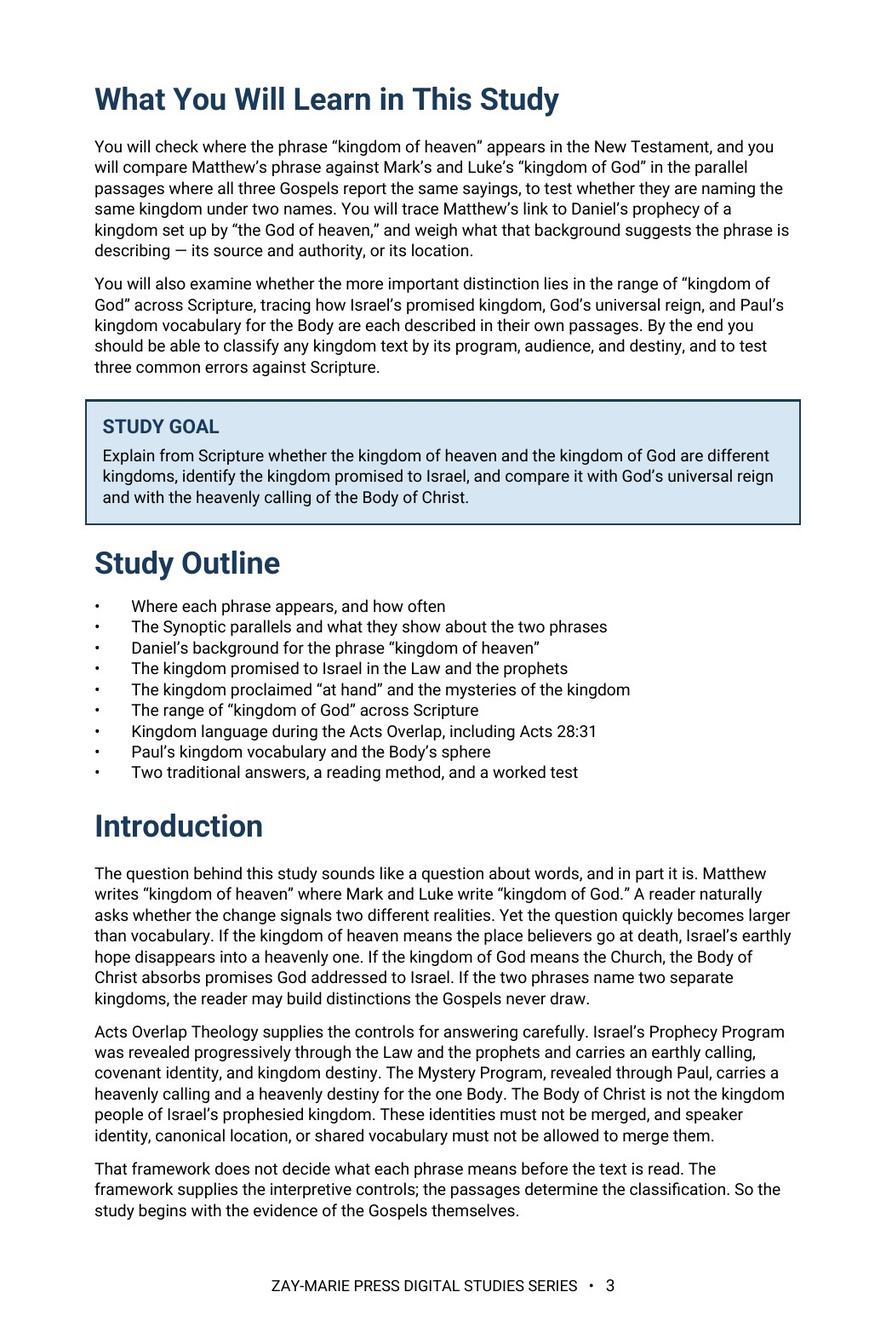
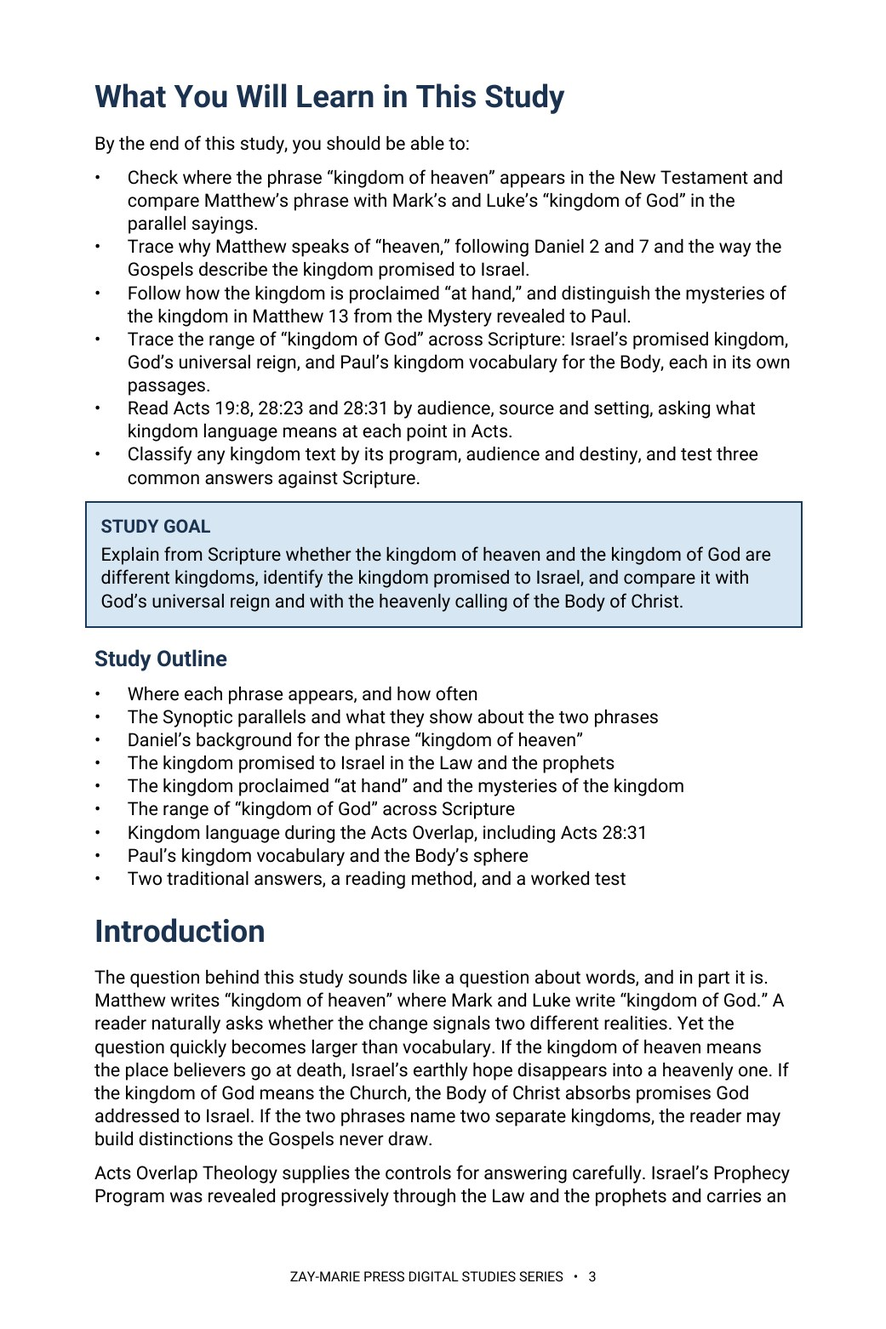
Study 41: rebuild to current page geometry, Roboto 10 pt, 21 pages; doctrinal retrofit; website counts and previews
Claude-Session: https://claude.ai/code/session_01HC7bs9KYP2scp4hCL6DkTp

Changed region(s): [[0.0922, 0.0615, 0.9222, 0.9219], [0.3074, 0.9526, 0.6455, 0.9834]]

diff --git a/study-41-kingdom-of-god-or-kingdom-of-heaven.html b/study-41-kingdom-of-god-or-kingdom-of-heaven.html
@@ -1,5 +1,5 @@
 <!doctype html>
 <html lang="en"><head><meta charset="utf-8"><meta name="viewport" content="width=device-width,initial-scale=1"><title>Kingdom of God or Kingdom of Heaven? | Zay-Marie Press</title><meta name="description" content="Are the kingdom of God and the kingdom of heaven two different kingdoms? Compare the Gospel parallels, Daniel’s kingdom from heaven, the Acts Overlap, and Paul’s heavenly kingdom language. Preview Study 41 from Zay-Marie Press."><link rel="stylesheet" href="styles.css?v=20260928-8"><link rel="icon" type="image/png" href="assets/zay-marie-press-favicon.png"><style>
 .study-detail-page{background:#fff;color:#252525}.detail-hero{background:linear-gradient(135deg,#f8f5ec,#e3ece2);padding:58px 0}.detail-hero-grid{display:grid;grid-template-columns:minmax(250px,.72fr) minmax(0,1.28fr);gap:58px;align-items:center}.detail-cover{max-width:390px;margin:auto}.detail-cover img{display:block;width:100%;height:auto;box-shadow:0 14px 36px rgba(8,45,69,.18)}.detail-hero h1{font-size:clamp(2.7rem,5vw,4.7rem);line-height:1.02;margin:8px 0 10px;color:#143823}.detail-subtitle{font-family:Georgia,serif;font-size:1.35rem;font-weight:700;color:#082d45;margin:0 0 7px}.detail-kicker{font-family:Georgia,serif;font-style:italic;font-size:1.05rem;color:#4a4a44;margin:0 0 22px}.detail-copy{font-size:1.08rem;line-height:1.65;max-width:760px}.detail-buyline{display:flex;align-items:center;gap:18px;flex-wrap:wrap;margin-top:25px}.detail-price{font-family:Georgia,serif;font-size:2rem;font-weight:700;color:#143823}.detail-format,.preview-card .page-no{font-family:Arial,sans-serif;font-size:.76rem;font-weight:700;letter-spacing:.1em;text-transform:uppercase;color:#176b3a}.detail-button{display:inline-block;background:#176b3a;color:#fff;padding:13px 22px;font-family:Arial,sans-serif;font-size:.8rem;font-weight:700;letter-spacing:.07em;text-transform:uppercase}.detail-button.pending{opacity:.72;cursor:default}.detail-section{padding:66px 0}.detail-section.soft{background:#f6f7f2}.detail-section.cream{background:#faf8f2}.detail-section h2{color:#143823;margin:6px 0 18px;font-size:clamp(2rem,3.4vw,3rem)}.detail-section .lead{max-width:920px;font-size:1.1rem;line-height:1.62}.study-distinction{max-width:920px;margin-top:28px;margin-bottom:28px;padding:26px 28px;background:#fff;border:1px solid #d8d1bf;border-left:4px solid #b8871c}.study-distinction h3{margin:0 0 10px;color:#143823}.study-distinction p{margin:0 0 14px;line-height:1.62}.study-distinction a{font-family:Arial,sans-serif;font-weight:700;color:#176b3a;text-decoration:none}.study-points{display:grid;grid-template-columns:repeat(3,1fr);gap:18px;margin-top:28px;margin-bottom:28px}.study-point,.scripture-card,.preview-card,.include-item{background:#fff;border:1px solid var(--line);text-align:left}.study-point{border-top:3px solid #176b3a;padding:22px}.study-point h3{color:#143823;margin:0 0 8px;font-size:1.2rem}.study-point p,.scripture-card p,.preview-card p,.include-item p{margin:0;line-height:1.55}.scripture-grid{display:grid;grid-template-columns:repeat(4,1fr);gap:14px;margin-top:24px;margin-bottom:24px}.scripture-card{padding:22px 20px;color:#143823}.scripture-card h3{margin:0 0 9px;font-family:Georgia,serif;font-size:1rem;line-height:1.35}.scripture-card p{font-size:.94rem;color:#45453f}.excerpt{max-width:900px;margin:28px auto;border-left:4px solid #b8871c;padding:10px 0 10px 28px}.excerpt blockquote{font-family:Georgia,serif;font-size:clamp(1.45rem,2.5vw,2rem);line-height:1.45;color:#143823;margin:0 0 16px}.excerpt p{line-height:1.6;margin:0}.preview-grid{display:grid;grid-template-columns:repeat(2,1fr);gap:20px;margin-top:28px;margin-bottom:28px}.preview-card{padding:18px;min-height:210px;box-shadow:0 7px 20px rgba(20,40,25,.05)}.preview-image-link{display:block;margin:0 0 18px}.preview-image-link img{display:block;width:100%;height:auto;border:1px solid #d8d1bf;box-shadow:0 8px 22px rgba(20,40,25,.1);transition:transform .18s ease,box-shadow .18s ease}.preview-image-link:hover img{transform:translateY(-2px);box-shadow:0 11px 28px rgba(20,40,25,.16)}.preview-card h3{color:#143823;margin:8px 0 10px}.preview-instruction{margin:10px 0 0;font-family:Arial,sans-serif;font-size:.78rem;letter-spacing:.04em;color:#5b5b55}.includes-grid{display:grid;grid-template-columns:repeat(4,1fr);gap:14px;margin-top:26px}.include-item{padding:22px 20px;color:#143823}.include-item h3{margin:0 0 9px;font-family:Arial,sans-serif;font-size:.86rem;line-height:1.35;letter-spacing:.02em}.include-item p{font-size:.94rem;color:#45453f}.final-buy{background:#082d45;color:#fff;border-top:4px solid #b8871c;padding:42px 48px;display:grid;grid-template-columns:1fr auto;gap:36px;align-items:center}.final-buy .eyebrow,.final-buy h2,.final-buy .detail-price{color:#fff}.final-buy h2{margin:7px 0 6px}.final-buy p{margin:0}.final-offer{text-align:center}.back-link{display:inline-block;margin-top:18px;color:#143823;font-family:Arial,sans-serif;font-weight:700;text-decoration:none}.preview-lightbox{position:fixed;inset:0;z-index:10000;display:none;align-items:flex-start;justify-content:center;background:rgba(8,22,16,.88);padding:24px;overflow:auto}.preview-lightbox.open{display:flex}.preview-lightbox img{display:block;width:auto;height:auto;max-width:none;box-shadow:0 18px 55px rgba(0,0,0,.4);background:#fff}.preview-lightbox-close{position:fixed;top:18px;right:24px;z-index:10001;width:46px;height:46px;border:1px solid rgba(255,255,255,.65);border-radius:50%;background:rgba(0,0,0,.55);color:#fff;font:32px/1 Arial,sans-serif;cursor:pointer}@media(max-width:900px){.detail-hero-grid{grid-template-columns:1fr;gap:34px}.detail-cover{max-width:330px}.study-points{grid-template-columns:repeat(2,1fr)}.scripture-grid,.includes-grid{grid-template-columns:repeat(2,1fr)}.preview-grid,.final-buy{grid-template-columns:1fr}.final-offer{text-align:left}}@media(max-width:560px){.detail-hero{padding:42px 0}.detail-section{padding:50px 0}.study-points,.scripture-grid,.includes-grid{grid-template-columns:1fr}.final-buy{padding:32px 24px}.detail-buyline{align-items:flex-start;flex-direction:column;gap:8px}.preview-lightbox{padding:58px 10px 24px}.preview-lightbox img{width:100%;max-width:100%;height:auto}} .detail-hero h1{font-size:clamp(2.1rem,4.2vw,3.7rem);line-height:1.08}</style></head><body class="study-detail-page">
-<header class="site-header"><div class="wrap nav"><a class="logo" href="index.html" aria-label="Zay-Marie Press home"><img src="assets/zay-marie-press-logo-hq.png" alt="Zay-Marie Press" width="420" height="238"></a><button class="menu-toggle" type="button" aria-expanded="false" aria-controls="primary-nav">MENU</button><nav aria-label="Primary navigation" class="primary-nav" id="primary-nav"><a href="index.html">HOME</a><a href="books.html">BOOKS</a><a href="series.html">SERIES</a><a class="active" aria-current="page" href="digital-studies.html">DIGITAL STUDIES</a><a href="biblical-hermeneutics-course.html">COURSE</a><a href="about.html">ABOUT</a><a href="resources.html">RESOURCES</a><a href="contact.html">CONTACT</a></nav></div></header><main><section class="detail-hero"><div class="wrap detail-hero-grid"><div class="detail-cover"><picture><source srcset="assets/study-41-cover.webp" type="image/webp"><img src="assets/study-41-cover.jpg" alt="Kingdom of God or Kingdom of Heaven? — Study 41 cover"></picture></div><div><div class="eyebrow">STUDY 41 · DIGITAL STUDY</div><h1>Kingdom of God or<br>Kingdom of Heaven?</h1><p class="detail-subtitle">Two Phrases, One Promised Kingdom, and the Distinctions Scripture Actually Draws</p><p class="detail-kicker">A Biblical Examination of the Gospel Parallels, Daniel’s Kingdom From Heaven, the Acts Overlap, and Paul’s Heavenly Kingdom Language</p><p class="detail-copy">Matthew speaks of the kingdom of heaven where Mark and Luke speak of the kingdom of God. Some teachers build two separate kingdoms on that difference; others fold both phrases into the Church, the heart, or going to heaven at death.</p><p class="detail-copy">This study lets the parallel sayings settle what the phrases share, then places the real distinction where Scripture places it: Israel’s promised kingdom, God’s universal reign, and the Body of Christ’s heavenly calling.</p><div class="detail-buyline"><span class="detail-price">$5.99</span><span class="detail-format">Digital PDF · 16 Pages</span><span class="detail-button pending" aria-disabled="true">Checkout Coming Soon</span></div></div></div></section><section class="detail-section"><div class="wrap"><div class="eyebrow">ABOUT THIS STUDY</div><h2>Two Phrases, One Promised Kingdom</h2><p class="lead">Where Matthew, Mark, and Luke report the same sayings, “kingdom of heaven” and “kingdom of God” name the same kingdom—Matthew 19:23–24 uses both for one entrance into one kingdom. Matthew’s phrase echoes Daniel’s kingdom set up by “the God of heaven”: a kingdom of heavenly source and authority, established on the earth under David’s Son.</p><p class="lead">The real distinction is one of range. “Kingdom of God” can also name God’s everlasting reign over all things, and in Paul’s letters it names the Son’s heavenly kingdom to which the Body has been translated. The Body of Christ is not the kingdom people of Israel’s prophesied kingdom; its sphere is the heavenly places.</p><p class="lead">This is not a study of what Israel was called to do in response to the Kingdom, which Study 2 examines in full, nor of the Body’s own heavenly calling, which Study 5 develops as a whole, nor of the Acts 28 suspension of Israel’s program, which Study 21 traces directly. Its task comes first: to settle, from the Gospels themselves, whether “kingdom of heaven” and “kingdom of God” name one kingdom or two before either later study is read.</p><div class="study-distinction"><h3>How These Studies Relate</h3><p>Study 41 tests whether the kingdom of heaven and the kingdom of God are different kingdoms and identifies whose kingdom each text describes.</p><p><a href="study-02-the-gospel-of-the-kingdom.html">Study 2 — The Gospel of the Kingdom</a> Study the Kingdom message itself—its audience, promises, and required response—after this study establishes what the two kingdom phrases name.</p><p><a href="study-05-the-heavenly-calling.html">Study 5 — The Heavenly Calling</a> Develop the Body’s heavenly identity, position, and hope, which this study distinguishes from Israel’s earthly kingdom inheritance.</p><p><a href="study-21-israels-judicial-blinding.html">Study 21 — Israel’s Judicial Blinding</a> Examine the Acts 28 suspension that frames this study’s reading of Paul’s final kingdom preaching in Acts 28:31.</p><p class="connection-guide-link"><a href="study-connections.html#study-41">Explore the full connection guide for Study 41 →</a></p></div><div class="cross-strand-note"><p class="cross-strand-label">FROM THE PARABLES STRAND</p><p>Two parables turn on the very question this study tests.</p><p><a href="parable-18-the-wise-and-foolish-builders.html">The Wise and Foolish Builders</a> · <a href="parable-34-the-narrow-door.html">The Narrow Door</a></p></div></div></section><section class="detail-section soft"><div class="wrap"><div class="eyebrow">WHAT YOU’LL STUDY</div><h2>Let the Parallel Texts Define the Phrases</h2><div class="study-points"><div class="study-point"><h3>Where Each Phrase Appears</h3><p>See why “kingdom of heaven” is unique to Matthew and how often Matthew also says “kingdom of God.”</p></div><div class="study-point"><h3>One Kingdom, Two Names</h3><p>Compare the Synoptic parallels and Matthew 19:23–24, and test whether the two phrases name one kingdom or two.</p></div><div class="study-point"><h3>Daniel’s Kingdom From Heaven</h3><p>Trace Daniel’s own use of “of heaven” and test what it names — a location, or a source and authority.</p></div><div class="study-point"><h3>The Kingdom Promised to Israel</h3><p>Identify David’s throne, the house of Jacob, and the earthly kingdom still expected in Acts 1:6.</p></div><div class="study-point"><h3>God’s Universal Reign</h3><p>Distinguish God’s everlasting rule over all things from the particular kingdom promised to Israel.</p></div><div class="study-point"><h3>Paul’s Heavenly Kingdom</h3><p>Classify kingdom language during the Acts Overlap and read Paul’s “heavenly kingdom” within the Body’s heavenly calling.</p></div></div></div></section><section class="detail-section cream"><div class="wrap"><div class="eyebrow">KEY SCRIPTURES</div><h2>Examine the Passages for Yourself</h2><div class="scripture-grid"><div class="scripture-card"><h3>Matthew 19:23–24</h3><p>Uses “kingdom of heaven” and “kingdom of God” in successive sentences for one entrance into one kingdom.</p></div><div class="scripture-card"><h3>Matthew 5:3; Luke 6:20</h3><p>Reports the same blessing on the poor with each Gospel’s kingdom phrase.</p></div><div class="scripture-card"><h3>Daniel 2:44; 7:27</h3><p>Promises a kingdom set up by the God of heaven and given “under the whole heaven.”</p></div><div class="scripture-card"><h3>Matthew 6:10</h3><p>Prays for the kingdom to come so that God’s will is done in earth as it is in heaven.</p></div><div class="scripture-card"><h3>Luke 1:32–33</h3><p>Names David’s throne, the house of Jacob, and an everlasting reign as the kingdom’s content.</p></div><div class="scripture-card"><h3>Acts 1:6–7; 28:23–31</h3><p>Frames Acts with Israel’s kingdom hope and Paul’s kingdom preaching after the Acts 28 suspension.</p></div><div class="scripture-card"><h3>Psalm 103:19; Daniel 4:34</h3><p>Declares God’s everlasting kingdom that rules over all.</p></div><div class="scripture-card"><h3>Colossians 1:13; 2 Timothy 4:18</h3><p>Describes the Body translated into the Son’s kingdom and preserved unto His heavenly kingdom.</p></div></div></div></section><section class="detail-section"><div class="wrap"><div class="eyebrow">FROM THE STUDY</div><h2>Source, Not Location</h2><div class="excerpt"><blockquote>“Heaven is the source, character, and authority of the kingdom; earth is its promised sphere.”</blockquote><p>Matthew’s “kingdom of heaven” is heaven’s kingdom coming to earth. Paul’s “heavenly kingdom” is located in the heavenly places. Reading every kingdom text by its audience, sphere, and program keeps Israel’s promises Israel’s and the Body’s calling heavenly.</p></div></div></section><section class="detail-section soft"><div class="wrap"><div class="eyebrow">A LOOK INSIDE</div><h2>Preview the Study Before You Purchase</h2><p class="preview-instruction">Click any page to enlarge it for reading.</p><div class="preview-grid"><div class="preview-card"><a class="preview-image-link" data-preview-lightbox href="assets/study-41-page-2.jpg"><img src="assets/study-41-page-2.jpg" alt="Study 41 interior preview — page 2, table of contents"/></a><div class="page-no">Page 2</div><h3>Table of Contents</h3><p>See the full structure of the study, from the introduction through the final synthesis.</p></div><div class="preview-card"><a class="preview-image-link" data-preview-lightbox href="assets/study-41-page-3.jpg"><img src="assets/study-41-page-3.jpg" alt="Study 41 interior preview — page 3, what you will learn"/></a><div class="page-no">Page 3</div><h3>What You Will Learn</h3><p>See the study’s goals, controls, and central question at a glance.</p></div><div class="preview-card"><a class="preview-image-link" data-preview-lightbox href="assets/study-41-page-4.jpg"><img src="assets/study-41-page-4.jpg" alt="Study 41 interior preview — page 4, where the two phrases appear"/></a><div class="page-no">Page 4</div><h3>Where the Two Phrases Appear</h3><p>Compare Matthew’s phrase with Mark and Luke in the parallel sayings.</p></div></div></div></section><section class="detail-section"><div class="wrap"><div class="eyebrow">WHAT’S INCLUDED</div><h2>A Focused Study Built for<br>Understanding and Teaching</h2><div class="includes-grid"><div class="include-item"><h3>16-Page In-Depth Biblical Study</h3><p>A careful study of the two kingdom phrases and the kingdom each text describes.</p></div><div class="include-item"><h3>11 Core Teaching Sections</h3><p>Progress from the Gospel parallels through Daniel, Israel’s kingdom, the Acts Overlap, and Paul.</p></div><div class="include-item"><h3>Synoptic Parallel Tables</h3><p>Compare the sayings side by side and classify the three senses of “kingdom.”</p></div><div class="include-item"><h3>Worked Test of Three Errors</h3><p>Test “heaven at death,” “the kingdom is the Church,” and “two separate kingdoms” against the texts.</p></div><div class="include-item"><h3>12 Review Questions</h3><p>Test the study’s distinctions concerning the phrases, the kingdom, and the Body’s calling.</p></div><div class="include-item"><h3>Teaching Outline</h3><p>A ready framework for explaining the question to a class or another reader.</p></div><div class="include-item"><h3>Guided Further Study</h3><p>Return to the prophets, Matthew, Luke–Acts, and Paul’s heavenly vocabulary with directed questions.</p></div><div class="include-item"><h3>Final Synthesis Exercise</h3><p>Bring the evidence together in one concise, Scripture-based explanation.</p></div></div></div></section><section class="detail-section cream"><div class="wrap"><div class="final-buy"><div><div class="eyebrow">STUDY 41 · DIGITAL STUDY</div><h2>Kingdom of God or Kingdom of Heaven?</h2><p>16-page digital PDF · For personal use</p></div><div class="final-offer"><div class="detail-price">$5.99</div><span class="detail-button pending" aria-disabled="true">Checkout Coming Soon</span></div></div><a class="back-link" href="digital-studies.html">← Back to All Digital Studies</a></div></section><section class="study-method-course-bridge"><div class="wrap"><div class="study-method-course-panel"><div><div class="eyebrow">BUILD THE INTERPRETIVE METHOD</div><h2>Want More Than a Focused Study?</h2><p>Digital Studies examine particular biblical subjects and difficult passages. The 40-lesson Biblical Hermeneutics course teaches a complete, repeatable method for establishing meaning in context, determining proper assignment, and making responsible application.</p></div><a class="btn btn-primary" href="biblical-hermeneutics-course.html">BIBLICAL HERMENEUTICS COURSE</a></div></div></section></main>
+<header class="site-header"><div class="wrap nav"><a class="logo" href="index.html" aria-label="Zay-Marie Press home"><img src="assets/zay-marie-press-logo-hq.png" alt="Zay-Marie Press" width="420" height="238"></a><button class="menu-toggle" type="button" aria-expanded="false" aria-controls="primary-nav">MENU</button><nav aria-label="Primary navigation" class="primary-nav" id="primary-nav"><a href="index.html">HOME</a><a href="books.html">BOOKS</a><a href="series.html">SERIES</a><a class="active" aria-current="page" href="digital-studies.html">DIGITAL STUDIES</a><a href="biblical-hermeneutics-course.html">COURSE</a><a href="about.html">ABOUT</a><a href="resources.html">RESOURCES</a><a href="contact.html">CONTACT</a></nav></div></header><main><section class="detail-hero"><div class="wrap detail-hero-grid"><div class="detail-cover"><picture><source srcset="assets/study-41-cover.webp" type="image/webp"><img src="assets/study-41-cover.jpg" alt="Kingdom of God or Kingdom of Heaven? — Study 41 cover"></picture></div><div><div class="eyebrow">STUDY 41 · DIGITAL STUDY</div><h1>Kingdom of God or<br>Kingdom of Heaven?</h1><p class="detail-subtitle">Two Phrases, One Promised Kingdom, and the Distinctions Scripture Actually Draws</p><p class="detail-kicker">A Biblical Examination of the Gospel Parallels, Daniel’s Kingdom From Heaven, the Acts Overlap, and Paul’s Heavenly Kingdom Language</p><p class="detail-copy">Matthew speaks of the kingdom of heaven where Mark and Luke speak of the kingdom of God. Some teachers build two separate kingdoms on that difference; others fold both phrases into the Church, the heart, or going to heaven at death.</p><p class="detail-copy">This study lets the parallel sayings settle what the phrases share, then places the real distinction where Scripture places it: Israel’s promised kingdom, God’s universal reign, and the Body of Christ’s heavenly calling.</p><div class="detail-buyline"><span class="detail-price">$5.99</span><span class="detail-format">Digital PDF · 21 Pages</span><span class="detail-button pending" aria-disabled="true">Checkout Coming Soon</span></div></div></div></section><section class="detail-section"><div class="wrap"><div class="eyebrow">ABOUT THIS STUDY</div><h2>Two Phrases, One Promised Kingdom</h2><p class="lead">Where Matthew, Mark, and Luke report the same sayings, “kingdom of heaven” and “kingdom of God” name the same kingdom—Matthew 19:23–24 uses both for one entrance into one kingdom. Matthew’s phrase echoes Daniel’s kingdom set up by “the God of heaven”: a kingdom of heavenly source and authority, established on the earth under David’s Son.</p><p class="lead">The real distinction is one of range. “Kingdom of God” can also name God’s everlasting reign over all things, and in Paul’s letters it names the Son’s heavenly kingdom to which the Body has been translated. The Body of Christ is not the kingdom people of Israel’s prophesied kingdom; its sphere is the heavenly places.</p><p class="lead">This is not a study of what Israel was called to do in response to the Kingdom, which Study 2 examines in full, nor of the Body’s own heavenly calling, which Study 5 develops as a whole, nor of the Acts 28 suspension of Israel’s program, which Study 21 traces directly. Its task comes first: to settle, from the Gospels themselves, whether “kingdom of heaven” and “kingdom of God” name one kingdom or two before either later study is read.</p><div class="study-distinction"><h3>How These Studies Relate</h3><p>Study 41 tests whether the kingdom of heaven and the kingdom of God are different kingdoms and identifies whose kingdom each text describes.</p><p><a href="study-02-the-gospel-of-the-kingdom.html">Study 2 — The Gospel of the Kingdom</a> Study the Kingdom message itself—its audience, promises, and required response—after this study establishes what the two kingdom phrases name.</p><p><a href="study-05-the-heavenly-calling.html">Study 5 — The Heavenly Calling</a> Develop the Body’s heavenly identity, position, and hope, which this study distinguishes from Israel’s earthly kingdom inheritance.</p><p><a href="study-21-israels-judicial-blinding.html">Study 21 — Israel’s Judicial Blinding</a> Examine the Acts 28 suspension that frames this study’s reading of Paul’s final kingdom preaching in Acts 28:31.</p><p class="connection-guide-link"><a href="study-connections.html#study-41">Explore the full connection guide for Study 41 →</a></p></div><div class="cross-strand-note"><p class="cross-strand-label">FROM THE PARABLES STRAND</p><p>Two parables turn on the very question this study tests.</p><p><a href="parable-18-the-wise-and-foolish-builders.html">The Wise and Foolish Builders</a> · <a href="parable-34-the-narrow-door.html">The Narrow Door</a></p></div></div></section><section class="detail-section soft"><div class="wrap"><div class="eyebrow">WHAT YOU’LL STUDY</div><h2>Let the Parallel Texts Define the Phrases</h2><div class="study-points"><div class="study-point"><h3>Where Each Phrase Appears</h3><p>See why “kingdom of heaven” is unique to Matthew and how often Matthew also says “kingdom of God.”</p></div><div class="study-point"><h3>One Kingdom, Two Names</h3><p>Compare the Synoptic parallels and Matthew 19:23–24, and test whether the two phrases name one kingdom or two.</p></div><div class="study-point"><h3>Daniel’s Kingdom From Heaven</h3><p>Trace Daniel’s own use of “of heaven” and test what it names — a location, or a source and authority.</p></div><div class="study-point"><h3>The Kingdom Promised to Israel</h3><p>Identify David’s throne, the house of Jacob, and the earthly kingdom still expected in Acts 1:6.</p></div><div class="study-point"><h3>God’s Universal Reign</h3><p>Distinguish God’s everlasting rule over all things from the particular kingdom promised to Israel.</p></div><div class="study-point"><h3>Paul’s Heavenly Kingdom</h3><p>Classify kingdom language during the Acts Overlap and read Paul’s “heavenly kingdom” within the Body’s heavenly calling.</p></div></div></div></section><section class="detail-section cream"><div class="wrap"><div class="eyebrow">KEY SCRIPTURES</div><h2>Examine the Passages for Yourself</h2><div class="scripture-grid"><div class="scripture-card"><h3>Matthew 19:23–24</h3><p>Uses “kingdom of heaven” and “kingdom of God” in successive sentences for one entrance into one kingdom.</p></div><div class="scripture-card"><h3>Matthew 5:3; Luke 6:20</h3><p>Reports the same blessing on the poor with each Gospel’s kingdom phrase.</p></div><div class="scripture-card"><h3>Daniel 2:44; 7:27</h3><p>Promises a kingdom set up by the God of heaven and given “under the whole heaven.”</p></div><div class="scripture-card"><h3>Matthew 6:10</h3><p>Prays for the kingdom to come so that God’s will is done in earth as it is in heaven.</p></div><div class="scripture-card"><h3>Luke 1:32–33</h3><p>Names David’s throne, the house of Jacob, and an everlasting reign as the kingdom’s content.</p></div><div class="scripture-card"><h3>Acts 1:6–7; 28:23–31</h3><p>Frames Acts with Israel’s kingdom hope and Paul’s kingdom preaching after the Acts 28 suspension.</p></div><div class="scripture-card"><h3>Psalm 103:19; Daniel 4:34</h3><p>Declares God’s everlasting kingdom that rules over all.</p></div><div class="scripture-card"><h3>Colossians 1:13; 2 Timothy 4:18</h3><p>Describes the Body translated into the Son’s kingdom and preserved unto His heavenly kingdom.</p></div></div></div></section><section class="detail-section"><div class="wrap"><div class="eyebrow">FROM THE STUDY</div><h2>Source, Not Location</h2><div class="excerpt"><blockquote>“Heaven is the source, character, and authority of the kingdom; earth is its promised sphere.”</blockquote><p>Matthew’s “kingdom of heaven” is heaven’s kingdom coming to earth. Paul’s “heavenly kingdom” is located in the heavenly places. Reading every kingdom text by its audience, sphere, and program keeps Israel’s promises Israel’s and the Body’s calling heavenly.</p></div></div></section><section class="detail-section soft"><div class="wrap"><div class="eyebrow">A LOOK INSIDE</div><h2>Preview the Study Before You Purchase</h2><p class="preview-instruction">Click any page to enlarge it for reading.</p><div class="preview-grid"><div class="preview-card"><a class="preview-image-link" data-preview-lightbox href="assets/study-41-page-2.jpg"><img src="assets/study-41-page-2.jpg" alt="Study 41 interior preview — page 2, table of contents"/></a><div class="page-no">Page 2</div><h3>Table of Contents</h3><p>See the full structure of the study, from the introduction through the final synthesis.</p></div><div class="preview-card"><a class="preview-image-link" data-preview-lightbox href="assets/study-41-page-3.jpg"><img src="assets/study-41-page-3.jpg" alt="Study 41 interior preview — page 3, what you will learn"/></a><div class="page-no">Page 3</div><h3>What You Will Learn</h3><p>See the study’s goals, controls, and central question at a glance.</p></div><div class="preview-card"><a class="preview-image-link" data-preview-lightbox href="assets/study-41-page-4.jpg"><img src="assets/study-41-page-4.jpg" alt="Study 41 interior preview — page 4, where the two phrases appear"/></a><div class="page-no">Page 4</div><h3>Where the Two Phrases Appear</h3><p>Compare Matthew’s phrase with Mark and Luke in the parallel sayings.</p></div></div></div></section><section class="detail-section"><div class="wrap"><div class="eyebrow">WHAT’S INCLUDED</div><h2>A Focused Study Built for<br>Understanding and Teaching</h2><div class="includes-grid"><div class="include-item"><h3>21-Page In-Depth Biblical Study</h3><p>A careful study of the two kingdom phrases and the kingdom each text describes.</p></div><div class="include-item"><h3>11 Core Teaching Sections</h3><p>Progress from the Gospel parallels through Daniel, Israel’s kingdom, the Acts Overlap, and Paul.</p></div><div class="include-item"><h3>Synoptic Parallel Tables</h3><p>Compare the sayings side by side and classify the three senses of “kingdom.”</p></div><div class="include-item"><h3>Worked Test of Three Errors</h3><p>Test “heaven at death,” “the kingdom is the Church,” and “two separate kingdoms” against the texts.</p></div><div class="include-item"><h3>12 Review Questions</h3><p>Test the study’s distinctions concerning the phrases, the kingdom, and the Body’s calling.</p></div><div class="include-item"><h3>Teaching Outline</h3><p>A ready framework for explaining the question to a class or another reader.</p></div><div class="include-item"><h3>Guided Further Study</h3><p>Return to the prophets, Matthew, Luke–Acts, and Paul’s heavenly vocabulary with directed questions.</p></div><div class="include-item"><h3>Final Synthesis Exercise</h3><p>Bring the evidence together in one concise, Scripture-based explanation.</p></div></div></div></section><section class="detail-section cream"><div class="wrap"><div class="final-buy"><div><div class="eyebrow">STUDY 41 · DIGITAL STUDY</div><h2>Kingdom of God or Kingdom of Heaven?</h2><p>21-page digital PDF · For personal use</p></div><div class="final-offer"><div class="detail-price">$5.99</div><span class="detail-button pending" aria-disabled="true">Checkout Coming Soon</span></div></div><a class="back-link" href="digital-studies.html">← Back to All Digital Studies</a></div></section><section class="study-method-course-bridge"><div class="wrap"><div class="study-method-course-panel"><div><div class="eyebrow">BUILD THE INTERPRETIVE METHOD</div><h2>Want More Than a Focused Study?</h2><p>Digital Studies examine particular biblical subjects and difficult passages. The 40-lesson Biblical Hermeneutics course teaches a complete, repeatable method for establishing meaning in context, determining proper assignment, and making responsible application.</p></div><a class="btn btn-primary" href="biblical-hermeneutics-course.html">BIBLICAL HERMENEUTICS COURSE</a></div></div></section></main>
 <div class="preview-lightbox" id="preview-lightbox" role="dialog" aria-modal="true" aria-label="Expanded study preview"><button class="preview-lightbox-close" type="button" aria-label="Close preview">×</button><img id="preview-lightbox-image" alt=""></div><footer class="site-footer"><div class="wrap footer-grid"><div class="footer-about"><h3>Zay-Marie Press</h3><p class="footer-tagline"><em>Where the Bible Means What It Says.</em></p><p>Zay-Marie Press is a Christian theological publisher dedicated to producing doctrinally precise, carefully structured biblical resources that equip pastors, teachers, and serious students with clarity, depth, and Scripture-anchored truth.</p><p><a href="https://zaymariepress.com">zaymariepress.com</a><br><a href="mailto:info@zaymariepress.com">info@zaymariepress.com</a></p></div><div class="footer-column"><h3>Explore</h3><div class="footer-links-stacked"><a href="books.html">Books</a><br><a href="series.html">Series</a><br><a href="biblical-hermeneutics-course.html">Course</a><br><a href="digital-studies.html">Digital Studies</a><br><a href="resources.html">Resources</a><br><a href="bible-book-summaries.html">Bible Book Summaries</a><br><a href="doctrinal-packets.html">Doctrinal Packets</a><br><a href="historical-drift.html">Historical Drift</a><br><a href="about.html">About</a><br><a href="contact.html">Contact</a></div></div><div class="footer-column"><h3>Reader Support</h3><div class="footer-links-stacked"><a href="reader-support.html#faq">FAQ</a><br><a href="reader-support.html#shipping-returns">Shipping &amp; Returns</a><br><a href="reader-support.html#digital-downloads">Digital Downloads</a><br><a href="reader-support.html#contact-support">Contact Support</a></div></div><div class="footer-column"><h3>Acts Overlap</h3><p><strong>Acts Overlap Theology Series</strong></p><p><em>Two Distinct Streams. One Overlap.</em></p><p><a href="series.html">Series Overview</a></p></div></div><div class="wrap footer-bottom">© 2026 Zay-Marie Press. All rights reserved.</div></footer><script src="site.js"></script><script>const lightbox=document.getElementById('preview-lightbox'),lightboxImage=document.getElementById('preview-lightbox-image'),closeLightbox=()=>{lightbox.classList.remove('open');lightboxImage.src='';};document.querySelectorAll('[data-preview-lightbox]').forEach(link=>link.addEventListener('click',event=>{event.preventDefault();lightboxImage.src=link.href;lightboxImage.alt=link.querySelector('img').alt;lightbox.classList.add('open');}));document.querySelector('.preview-lightbox-close').addEventListener('click',closeLightbox);lightbox.addEventListener('click',event=>{if(event.target===lightbox)closeLightbox();});document.addEventListener('keydown',event=>{if(event.key==='Escape')closeLightbox();});</script></body></html>

diff --git a/site.js b/site.js
@@ -62,7 +62,7 @@ const resourceModal=document.querySelector('#resource-modal'), resourceModalTitl
 if(resourceModal&&resourceModalTriggers.length){const closeResourceModal=()=>{resourceModal.hidden=true;document.body.classList.remove('resource-modal-open');lastResourceTrigger?.focus();};resourceModalTriggers.forEach(trigger=>trigger.addEventListener('click',()=>{lastResourceTrigger=trigger;if(resourceModalTitle)resourceModalTitle.textContent=trigger.dataset.title||'Resource';if(resourceModalDescription)resourceModalDescription.textContent=trigger.dataset.description||'';if(resourceModalLink){resourceModalLink.href=trigger.dataset.href||'#';resourceModalLink.textContent=trigger.dataset.linkText||'OPEN RESOURCE';}resourceModal.hidden=false;document.body.classList.add('resource-modal-open');resourceModalClose?.focus();}));resourceModalClose?.addEventListener('click',closeResourceModal);resourceModal.addEventListener('click',e=>{if(e.target===resourceModal)closeResourceModal();});document.addEventListener('keydown',e=>{if(e.key==='Escape'&&!resourceModal.hidden)closeResourceModal();});}
 
 /* Display the verified final-PDF page count at the primary purchase decision point. */
-const digitalStudyPageCounts={1:17,2:19,3:16,4:17,5:15,6:15,7:14,8:13,9:15,10:20,11:15,12:15,13:18,14:15,15:15,16:16,17:17,18:18,19:16,20:15,21:16,22:15,23:14,24:16,25:17,26:16,27:16,28:17,29:19,30:18,31:18,32:19,33:18,34:20,35:22,36:20,37:21,38:22,39:22,40:23,41:16,42:17,43:17,44:19,45:19,46:20,47:19,48:18,49:20,50:19,51:20,52:19,53:19,54:17,55:20,56:20,57:20,58:19,59:20,60:15,61:16,62:18,63:17,64:17,65:16,66:16,67:17,68:16,69:17,70:17,71:16};
+const digitalStudyPageCounts={1:17,2:19,3:16,4:17,5:15,6:15,7:14,8:13,9:15,10:20,11:15,12:15,13:18,14:15,15:15,16:16,17:17,18:18,19:16,20:15,21:16,22:15,23:14,24:16,25:17,26:16,27:16,28:17,29:19,30:18,31:18,32:19,33:18,34:20,35:22,36:20,37:21,38:22,39:22,40:23,41:21,42:17,43:17,44:19,45:19,46:20,47:19,48:18,49:20,50:19,51:20,52:19,53:19,54:17,55:20,56:20,57:20,58:19,59:20,60:15,61:16,62:18,63:17,64:17,65:16,66:16,67:17,68:16,69:17,70:17,71:16};
 const digitalStudyMatch=window.location.pathname.match(/\/study-(\d+)-/i);
 const digitalStudyFormat=document.querySelector('.detail-hero .detail-format');
 if(digitalStudyMatch&&digitalStudyFormat){const studyNumber=Number(digitalStudyMatch[1]),pageCount=digitalStudyPageCounts[studyNumber];if(pageCount)digitalStudyFormat.textContent=`Digital PDF · ${pageCount} Pages`;}

diff --git a/CLAUDE.md b/CLAUDE.md
@@ -23,7 +23,7 @@ These are kept in the repo at `controlling-documents/` and are the current versi
 - As of v1.50 (publisher directive, 2026-10-03), the **What You Will Learn in This Study** section is always bulleted, never set as running paragraphs, written into this file in the same pass (Master Standard Section 3 item 4, Section 6 structure line, Section 22): a list of bullet points, each describing one process, textual marker or interpretive discipline the reader will practice (Section 17 still governs what they may say); at most one short lead-in line may stand above the bullets (for example, “By the end of this study, you should be able to:”); the Study Goal callout and the Study Outline keep their own forms. It governs every new study and every study rebuilt or retrofitted from now on; earlier studies take it when reopened or when the publisher directs. In every study check (Step 1), report whether the section is bulleted. First applied to Study 43.
 **`controlling-documents/Digital_Studies_Relationship_Map_v1.39.md`** — records each study's distinct subject, its related studies, the eight priced six-study collections, the Paul's Missionary Journeys cross-reference map, and the five primary catalog categories (currently version 1.39, covers Studies 1–71; update it as new studies publish, bump the version number, rename the file to match, and log the change in its own version-history table — mirroring the Master Standard's `_vX.Y` filename convention). Check a proposed topic against it before recommending or writing a new study. (2026-09-28: the file was missing from this repo despite this note referencing it; replaced from the publisher's copy and bumped v1.15→v1.25 in the same pass. If this note ever again points to a version not present under `controlling-documents/`, ask the publisher for a copy rather than proceeding without the check.)
 - **`controlling-documents/Digital_Studies_Category_Standard_v1.1.md`** — FINAL and binding (publisher, 2026-10-01): the rules for the five primary catalog categories (Foundations, Israel & Prophecy, Body of Christ, Passages, Doctrinal Themes), the ordered decision procedure for new studies, the precedents, all 71 fixed assignments, and the cover-label form for each category. Read it before placing any card or cover label. Do not ask the publisher where a study belongs; apply the procedure and state the result. Only the publisher changes a ruling; then bump this Standard's version and filename, re-letter the cover, and update the Relationship Map.
-- **`controlling-documents/Doctrinal_Upgrade_Retrofit_Plan_v1.119.md`** — working tracker for retrofitting Studies 1–59 to the 2026-10-02 doctrinal upgrade (Framework/PAM v1.1, Master Standard v1.40, Rules 7–17): withdrawn-wording search keys, impact tiers, waves and the per-study method. Read it before continuing the retrofit in any session; update status, bump the version and rename the file as work proceeds.
+- **`controlling-documents/Doctrinal_Upgrade_Retrofit_Plan_v1.120.md`** — working tracker for retrofitting Studies 1–59 to the 2026-10-02 doctrinal upgrade (Framework/PAM v1.1, Master Standard v1.40, Rules 7–17): withdrawn-wording search keys, impact tiers, waves and the per-study method. Read it before continuing the retrofit in any session; update status, bump the version and rename the file as work proceeds.
 - **`controlling-documents/Doctrinal_Packet_Standard_v0.3.md`** — Doctrinal Packet Standard (DRAFT; §7 approved). Governs the separate Doctrinal Packets product strand (5-page interpretive PDFs per Bible book — a print-friendly cover as page 1 plus 4 content pages, $2.99, KJV, pilot: Genesis, live at `packet-genesis.html`, hub `doctrinal-packets.html`; site pages say "5 Pages", cover styles live in `packets.css`, Old Testament blue and New Testament soft pale green, hub listed in Bible order). **Preview rule (publisher directive, 2026-09-29, packets only):** previews show about one page's worth in two cropped views (top of page 1 through the anchor texts; the chart section) — never the exegesis, architecture, Mystery contrast, logic chain, outline, or closing. Master Standard §16/§17 still govern Digital Studies. Bump the version and rename the file as the Standard is finalized.
 - **`controlling-documents/Preview_Page_Spoiler_Retrofit_Audit_v1.4.md`** — working tracker for the Studies 1–60 preview-page conclusion-spoiler retrofit (see the section below). Read it before continuing that audit in any session; update its status fields and changelog, bump the version, and rename the file to match as the audit proceeds — same `_vX.Y` convention as the other controlling documents. As of v1.1, the website-side half was DONE: all 60 studies' "What You'll Study" text was judged against the rule (methodology documented in the file) and 22 points across 11 studies were rewritten and pushed; an unrelated Study 22 content bug (Study 21's content had leaked into it) was also found and fixed. As of v1.2, the publisher supplied Studies 1–60's interior production PDFs and the interior-PDF half was also surveyed (read-only): 10 studies (37, 41, 45, 47, 48, 49, 51, 52, 53, 54) were found to have at least one interior "What You Will Learn" violation, 50 studies were confirmed compliant, and the orphaned `assets/study-45-sanctification-under-grace.docx` (removed from the repo per the publisher in v1.0) was confirmed word-for-word identical to Study 45's actual production interior PDF content. As of v1.3, the publisher supplied editable DOCX sources for all 10 violating studies; all 15 violating points were rewritten and approved, delivered as corrected final PDFs, and — along the way — a second defect was found and fixed (Studies 47 and 48's source DOCX still had an unintegrated cover placeholder despite both being long-published live with real covers; fixed by inserting the existing approved cover art). The website's "What You Will Learn" preview image (`study-NN-page-3.jpg`) was regenerated from the corrected content for all 10 studies and pushed to `main` (commit `cea1859`), verified against a fresh clone. **The website side of this audit is now fully compliant for all 60 studies.** Outstanding: the publisher's purchasable interior PDF files themselves have corrected versions delivered, but distribution to existing purchasers was decided by the publisher on 2026-09-29: silent swap of the files behind the existing downloads, no reissue notice (recorded in the v1.4 changelog entry; the product files are not in this repo).
 

diff --git a/controlling-documents/Doctrinal_Upgrade_Retrofit_Plan_v1.120.md b/controlling-documents/Doctrinal_Upgrade_Retrofit_Plan_v1.120.md
@@ -212,3 +212,4 @@ Working tracker for correcting published studies to the Framework/PAM v1.1, Mast
 - v1.117 (2026-10-04): Study 38 rebuilt in Roboto at 10 pt on the current page, 22 pages (was 16 on the old 432×648 page at 8 pt). WYWL running paragraphs replaced by the standard lead-in and six process bullets (publisher-approved, same words); 'read as the Framework assigns them' and two 'framework' phrases reworded; withdrawn 'believing Jews are gathered into the Body … identity, not program membership' replaced by the standing overlap sentence; Rule 17, Rule 18 short form, Rule 11 and Cornelius sentences added; Acts 28 wording conformed (body and Guided Further Study) with the suspension-boundary sentence; Teaching Outline numbered. Layout-only keep-with-next on Final Synthesis (imprint never alone). Preview 3 relabelled 'Audience and Program in Acts'.
 - v1.118 (2026-10-04): Study 39 rebuilt in Roboto at 10 pt on the current page, 22 pages (was 16 on the old 432×648 page at 8 pt; the Scripture-Tracing KJV table runs seven pages). WYWL running paragraphs replaced by the standard lead-in and six process bullets (publisher-approved, same words); two 'The Framework does not assign … as a book' sentences (2 Timothy, Philippians) converted to the reader-facing audience-markers sentence; withdrawn 'Gentiles participate spiritually in that blessing' replaced by the Galatians 3 standing sentence; withdrawn 'believing Jews are gathered into the Body … identity, not program membership' replaced by the standing overlap sentence plus Rule 17; Acts 28 'national judicial suspension' conformed with the suspension-boundary sentence; Teaching Outline numbered; layout-only keep-with-next on Final Synthesis.
 - v1.119 (2026-10-04): Study 40 rebuilt in Roboto at 10 pt on the current page, 23 pages (was 16 on the old 432×648 page). WYWL running paragraphs replaced by the standard lead-in and six process bullets (publisher-approved, same words); withdrawn 'believing Jews are gathered into the Body … identity, not program membership' replaced by the overlap sentence plus Rule 17; 'Gentiles participate spiritually' (Gal 3:29 paragraph, Section 10, Key Distinctions cell) replaced by the Galatians 3 standing sentence; publisher-approved rewording of 'participate in promise', 'complete their Abrahamic heirship' and 'a substantial Abrahamic connection' so they state what Paul says believers receive in Christ; Teaching Outline numbered; layout-only keep-with-next on Final Synthesis.
+- v1.120 (2026-10-04): Study 41 rebuilt in Roboto at 10 pt on the current page, 21 pages (was 16 on the old 432×648 page). WYWL running paragraphs replaced by the standard lead-in and six process bullets (publisher-approved, same words); four 'The Framework does not assign … as a book' sentences handled (2 Timothy, 1 Thessalonians, Philippians converted to the reader-facing audience-markers sentence; Revelation sentence deleted because Revelation is now assigned); two 'framework' phrases reworded; withdrawn 'believing Jews are gathered into the Body' clarifier replaced by Rule 17; 'Prophecy-Program content spoken by the Mystery apostle' (Acts 19:8; 28:23) replaced by Rule 18 plus overlap sentence, short form in the Overlap Control callout and Key Distinctions cell; Acts 28 'national judicial suspension' conformed with the boundary sentence; Romans 11:25 citation carries the four-point list and triad; Teaching Outline numbered; layout-only keep-with-next on Final Synthesis. This completes the old-page-size rebuild list (4–41).

diff --git a/controlling-documents/Digital_Studies_PAM_Audit_v1.214.md b/controlling-documents/Digital_Studies_PAM_Audit_v1.214.md
@@ -443,3 +443,4 @@ Study 15 PDF not yet supplied. Typography: none of Studies 2, 3, 6, 8 is in EB G
 - v1.211 (2026-10-04): Study 38 rebuilt in Roboto at 10 pt on the current page, 22 pages; WYWL bulleted; Framework wording removed; withdrawn 'gathered into the Body' sentence replaced; Rule 17, 18, 11 and Cornelius sentences added; Acts 28 wording conformed (see Retrofit Plan v1.117).
 - v1.212 (2026-10-04): Study 39 rebuilt in Roboto at 10 pt on the current page, 22 pages; WYWL bulleted; Framework anchor wording converted; withdrawn Gal 3 'participate spiritually' and 'gathered into the Body' wording replaced; Acts 28 wording conformed (see Retrofit Plan v1.118).
 - v1.213 (2026-10-04): Study 40 rebuilt in Roboto at 10 pt on the current page, 23 pages; WYWL bulleted; withdrawn 'gathered into the Body' and 'Gentiles participate spiritually' wording replaced by standing sentences; Abrahamic 'participate/connection/heirship' summary lines reworded (see Retrofit Plan v1.119).
+- v1.214 (2026-10-04): Study 41 rebuilt in Roboto at 10 pt on the current page, 21 pages; WYWL bulleted; Framework wording removed; withdrawn 'gathered into the Body' and Prophecy-content-spoken-by-Paul wording replaced by Rule 17/18 sentences; Acts 28 wording conformed; Romans 11:25 citation carries the standing list and triad (see Retrofit Plan v1.120). Old-page-size rebuild list complete.
